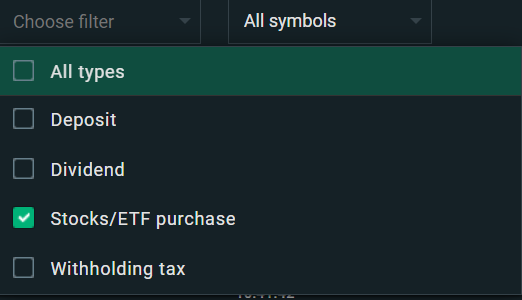
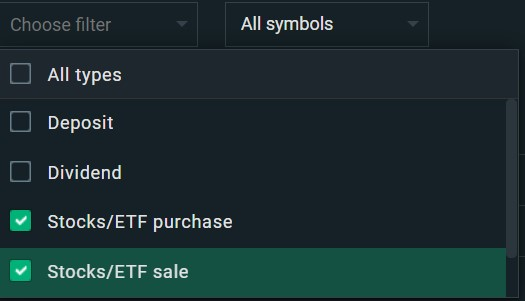
edit image for sell option

diff --git a/README.md b/README.md
@@ -22,7 +22,7 @@ Python project to transform a csv file from XTB into a csv file that can be used
 
 ![screenshot](image/screenshot2.png)
 
-3. Check **Stocks/ETF purchase** only
+3. Check **Stocks/ETF purchase** and **Stocks/ETF sale** only
 
 ![screenshot](image/screenshot3.png)
 
